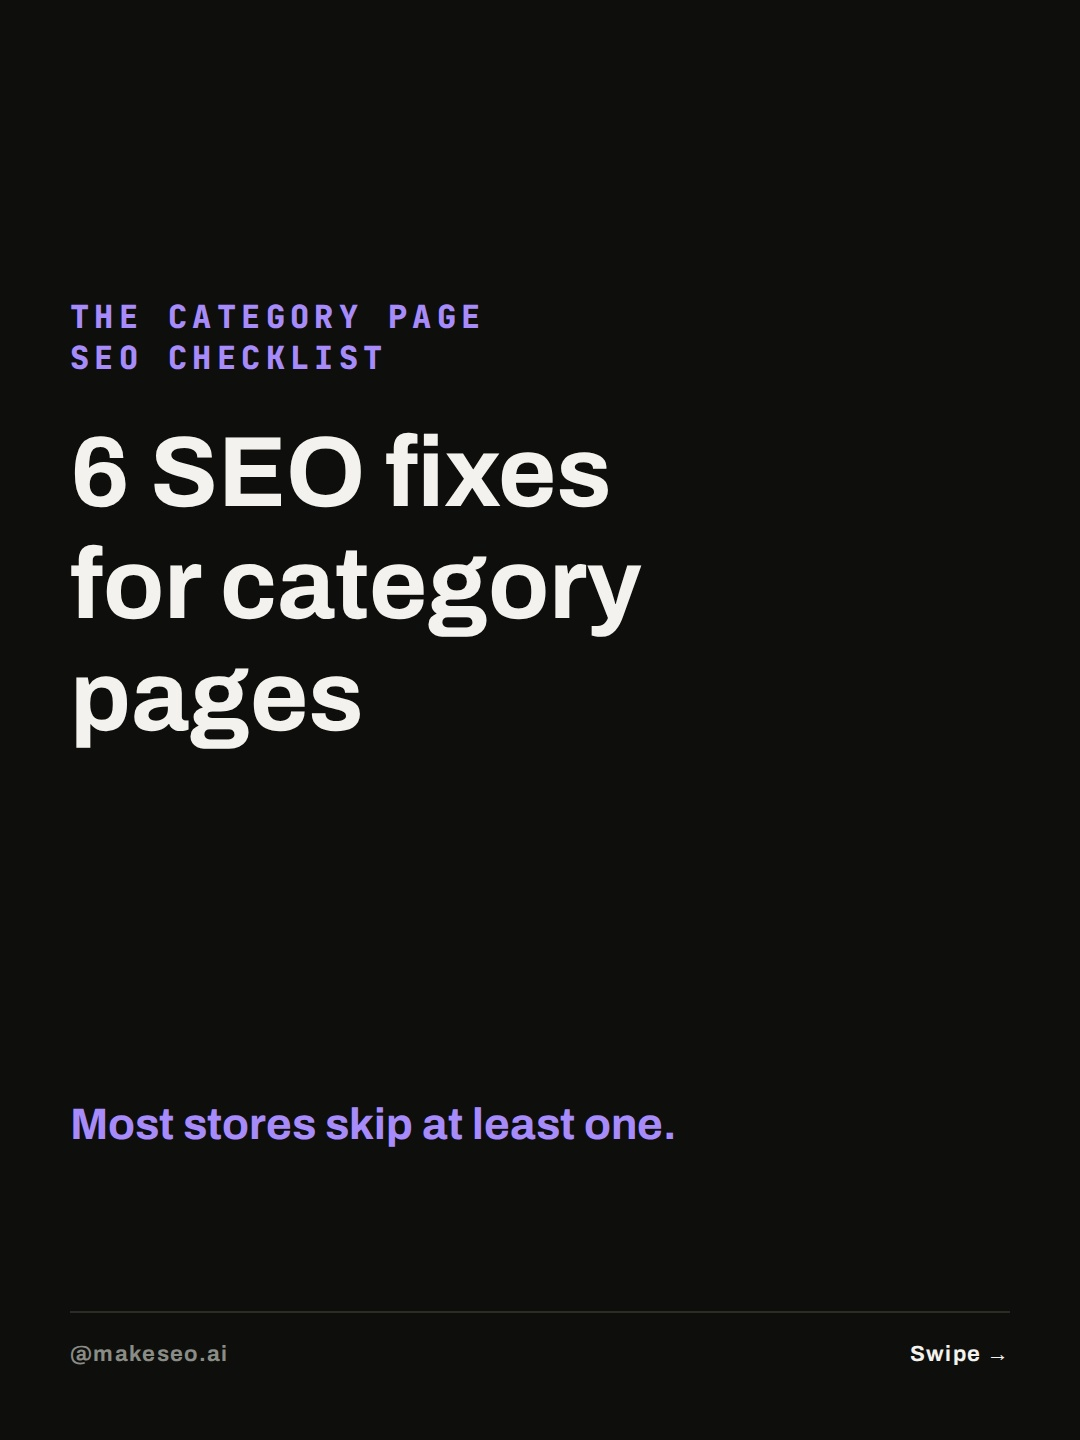
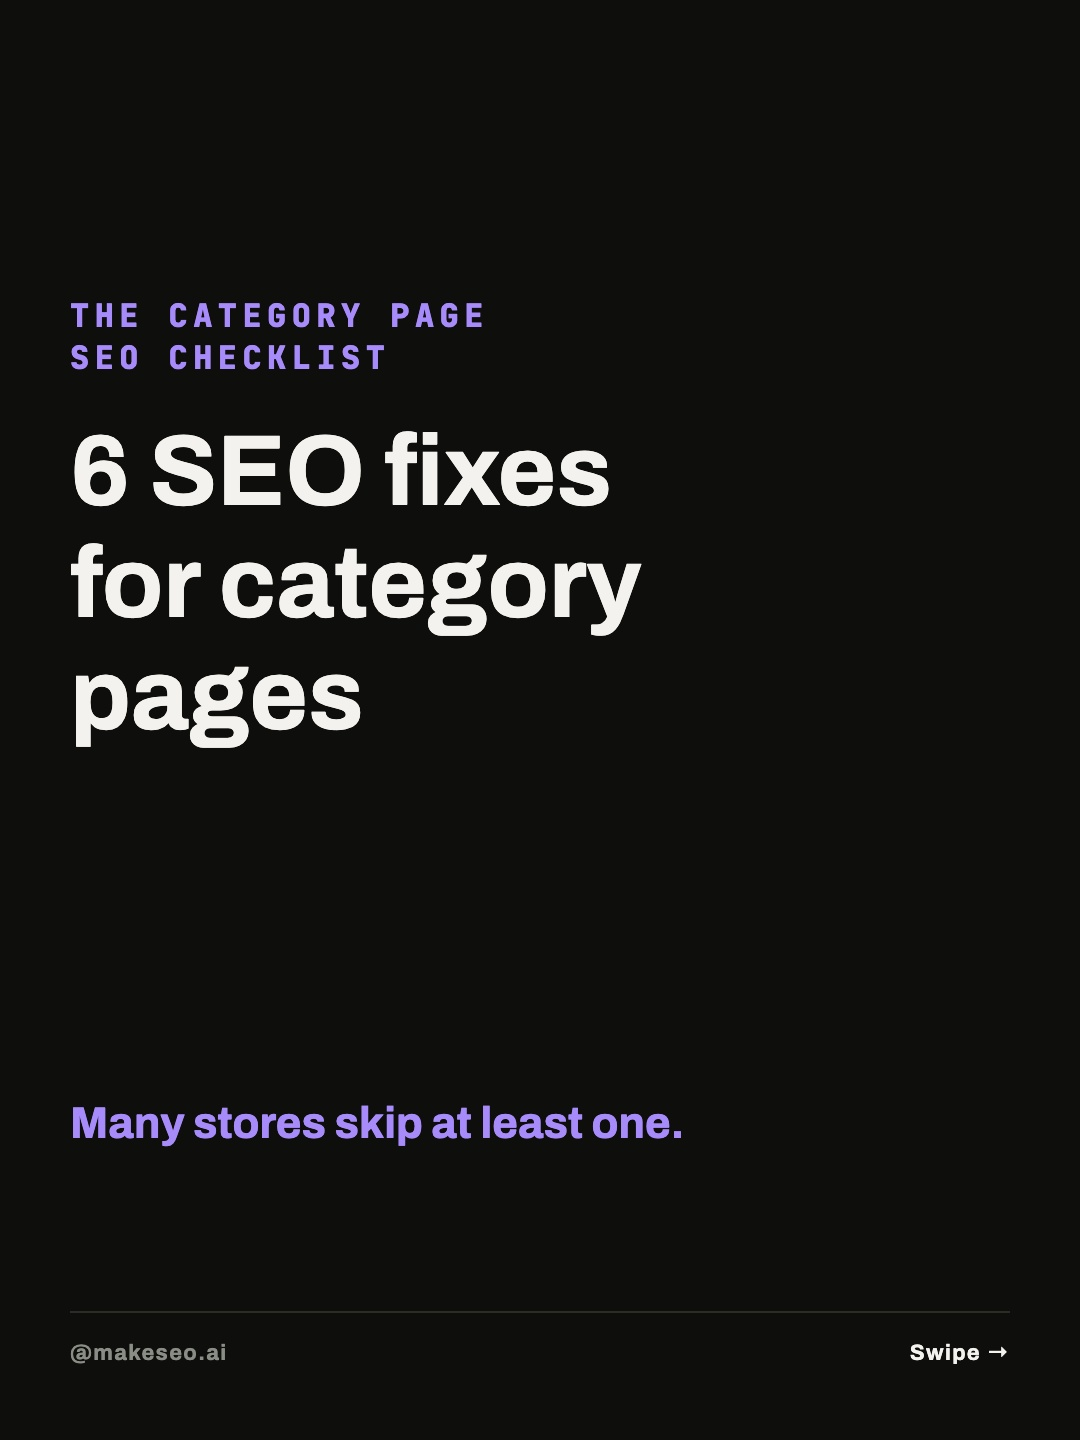
Nicer Telegram review card; hedge hook line; skill + review.md rules
- send_telegram.py: HTML card (headline from hook, one emoji line per review field,
  alt text in a collapsible quote), caption stays a separate copy-ready message
- 2026-09-30: 'Most stores' -> 'Many stores' (CLAUDE.md rule 4), re-rendered
- SKILL.md: no < > in slide text (raw HTML), hedge accentLine claims
- CLAUDE.md: review.md as 5 short '**Key:** value' lines for phone reading

Claude-Session: https://claude.ai/code/session_01ASKLaPXU4qqUjhmsYRsWmd

diff --git a/scripts/send_telegram.py b/scripts/send_telegram.py
@@ -1,10 +1,11 @@
 #!/usr/bin/env python3
 """Send queue/<date>/ to Telegram for manual review + posting.
 Needs env: TELEGRAM_BOT_TOKEN, TELEGRAM_CHAT_ID.
-Sends: review note -> slides as one album (documents = full 1080x1440 quality) -> caption (copy-ready)."""
-import json, os, sys, pathlib, requests
+Sends: review card -> slides as one album (documents = full 1080x1440 quality) -> caption (copy-ready)."""
+import datetime, html, json, os, re, sys, pathlib, requests
 
 ROOT = pathlib.Path(__file__).resolve().parent.parent
+ICONS = {"topic": "📝", "pillar": "🏛", "why today": "📅", "keyword": "🔑", "uncertain": "⚠"}
 
 def call(method, files=None, **data):
     url = f"https://api.telegram.org/bot{os.environ['TELEGRAM_BOT_TOKEN']}/{method}"
@@ -16,6 +17,42 @@ def call(method, files=None, **data):
 def read(p):
     return p.read_text(encoding="utf-8").strip() if p.exists() else ""
 
+def inline(text):
+    """Escape for Telegram HTML, then turn **bold** and `code` into tags."""
+    t = html.escape(text, quote=False)
+    t = re.sub(r"\*\*(.+?)\*\*", r"<b>\1</b>", t)
+    return re.sub(r"`(.+?)`", r"<code>\1</code>", t)
+
+def card(folder):
+    try:
+        date = datetime.date.fromisoformat(folder.name).strftime("%a, %d %b %Y")
+    except ValueError:
+        date = folder.name
+    deck = json.loads(read(folder / "deck.json") or "{}")
+    hook = next((s for s in deck.get("slides", []) if s.get("type") == "checkHook"), {})
+    title = re.sub(r"<br\s*/?>", " ", hook.get("title", "")).strip()
+
+    lines = [f"📸 <b>New carousel</b> · {date}"]
+    if title:
+        lines += ["", f"<b>{html.escape(title)}</b>"]
+    lines.append("")
+    for raw in read(folder / "review.md").splitlines():
+        raw = re.sub(r"^\s*(?:[-•]|\*(?!\*))\s*", "", raw).strip()
+        m = re.match(r"\*\*(.+?):?\*\*:?\s*(.*)", raw)
+        if m:
+            key, val = m.group(1).strip().rstrip(":"), m.group(2)
+            icon = ICONS.get(key.lower(), "•")
+            lines.append(f"{icon} <b>{html.escape(key)}:</b> {inline(val)}")
+        elif raw:
+            lines.append(inline(raw))
+    alt = read(folder / "alt.txt")
+    if alt:
+        lines += ["", "🖼 <b>Alt text</b> (Advanced settings → Accessibility)",
+                  f"<blockquote expandable>{html.escape(alt)}</blockquote>"]
+    n = len(list((folder / "slides").glob("*.jpg")))
+    lines += ["", f"👇 {n} slides below, then the caption: long-press → <b>Copy</b>"]
+    return "\n".join(lines)
+
 def main(folder):
     folder = ROOT / folder
     chat = os.environ["TELEGRAM_CHAT_ID"]
@@ -23,12 +60,8 @@ def main(folder):
     if len(jpgs) < 2:
         sys.exit("need 2–10 JPG slides")
 
-    review = read(folder / "review.md")
-    alt = read(folder / "alt.txt")
-    head = f"📸 New carousel: {folder.name}\n\n{review}"
-    if alt:
-        head += f"\n\nAlt text: {alt}"
-    call("sendMessage", chat_id=chat, text=head[:4096], disable_web_page_preview="true")
+    call("sendMessage", chat_id=chat, text=card(folder)[:4096], parse_mode="HTML",
+         link_preview_options=json.dumps({"is_disabled": True}))
 
     media = [{"type": "document", "media": f"attach://s{i}"} for i in range(len(jpgs))]
     files = {f"s{i}": (j.name, j.open("rb"), "image/jpeg") for i, j in enumerate(jpgs)}

diff --git a/queue/2026-09-30/review.md b/queue/2026-09-30/review.md
@@ -2,4 +2,4 @@
 - **Pillar:** 4 – E-commerce SEO (never used yet; 2 was the other unused pillar).
 - **Why today:** evergreen how-to; primary Google sources were blocked by the network proxy, so no news item could be verified (September 2026 spam update and Content API for Shopping sunset seen only in secondary sources, not used).
 - **Keyword:** AUDIT → "a free SEO audit of your site" (default).
-- **Uncertain:** Google docs were verified through search snippets, not a direct fetch. Hook accentLine "Most stores skip at least one." is an opinion, not a stat – soften if you prefer. TEST RUN: cadence check skipped; same date as the earlier on-page carousel entry.
+- **Uncertain:** Google docs were verified through search snippets, not a direct fetch. Hook line hedged to "Many stores skip at least one." (rule 4). TEST RUN: cadence check skipped; same date as the earlier on-page carousel entry.

diff --git a/.claude/skills/carousel/SKILL.md b/.claude/skills/carousel/SKILL.md
@@ -13,6 +13,10 @@ description: Turn one SEO topic into a rendered Instagram carousel (deck.json + 
 | checkSummary | eyebrow, title, titleAccent, items [= one short line per point, ≤34 chars], seed (optional 1 line, may hint "an AI can do this") | second to last |
 | darkCTA | eyebrow "BEFORE YOU GO", keyword, body "and I'll send you <promise>.", sub | always last |
 
+Slide text is inserted as raw HTML: never write `<` or `>` (e.g. say "an a tag with an href"),
+only `<br>` in checkHook titles. Every slide line counts as copy for CLAUDE.md rule 4: hedge
+claims about "most stores/sites" ("many", "often", "can"), including the hook's accentLine.
+
 Length limits matter: longer text overflows the layout. After rendering, open 2–3 PNGs and
 check nothing overlaps or runs off the canvas; shorten and re-render if it does.
 

diff --git a/CLAUDE.md b/CLAUDE.md
@@ -31,8 +31,8 @@ before creating anything. All content is written in **English**.
                   3–6 short prose paragraphs, 5–8 hashtags. Max 2,200 characters.
 - `alt.txt`     – one sentence
 - `sources.md`  – every factual claim with URL
-- `review.md`   – 5-line summary for the human reviewer: topic, pillar, why today, keyword,
-                  anything uncertain
+- `review.md`   – 5 lines for the human reviewer (read on a phone in Telegram), each
+                  `- **Key:** value`, max ~120 chars: Topic, Pillar, Why today, Keyword, Uncertain
 
 ## Review & publishing
 Push the finished piece on branch `content/YYYY-MM-DD`. The GitHub Action `review.yml` sends
